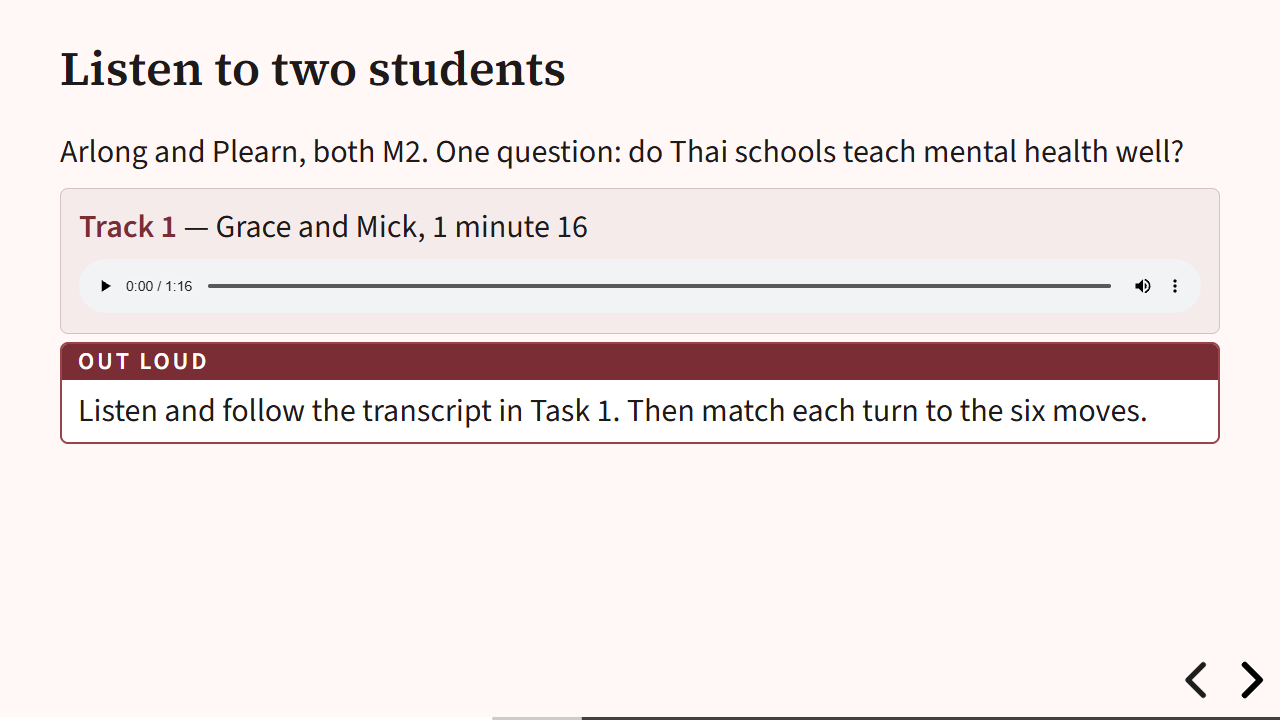
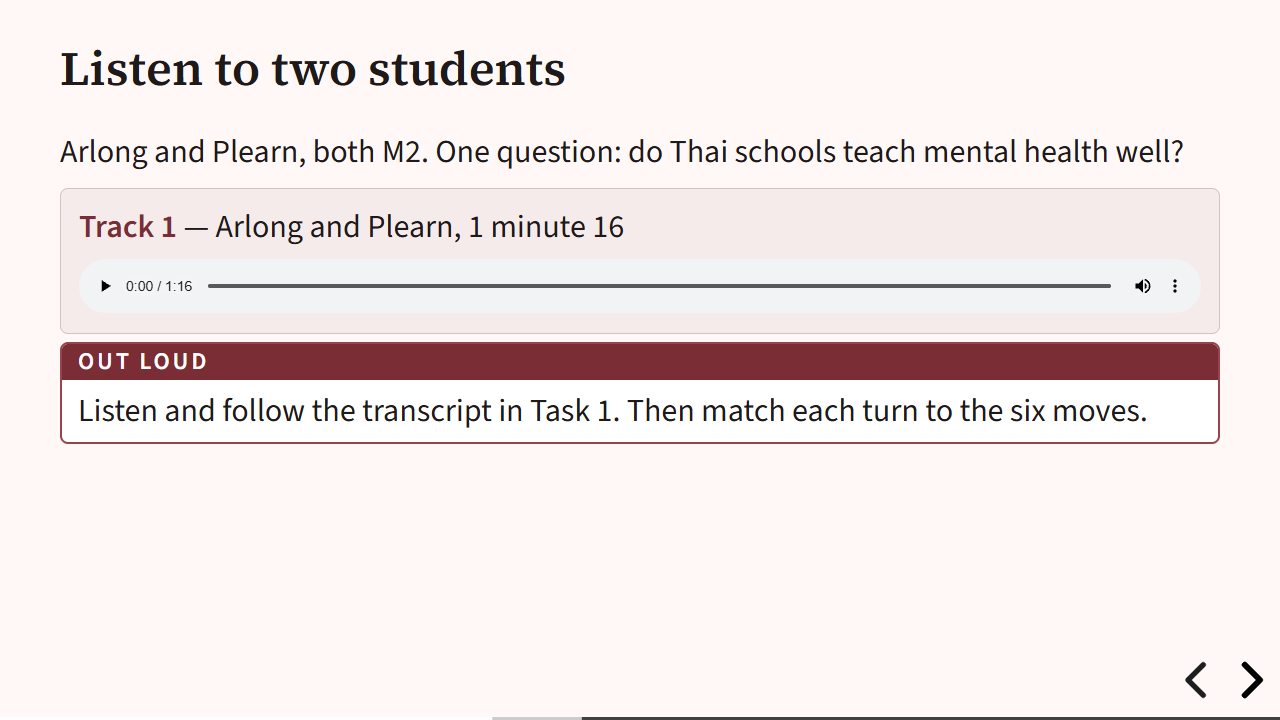
Deploy M2-101126-DISCUSSION

Changed region(s): [[0.1562, 0.275, 0.5, 0.3361]]

diff --git a/M2-101126-DISCUSSION/index.html b/M2-101126-DISCUSSION/index.html
@@ -185,7 +185,7 @@
         <div class="content">
           <p class="text-lg" style="margin-bottom:4px;">Arlong and Plearn, both M2. One question: do Thai schools teach mental health well?</p>
           <div class="track"><vsc-controller class="vsc-controller" style="z-index: 9999999 !important;"></vsc-controller><vsc-controller class="vsc-controller" style="z-index: 9999999 !important;"></vsc-controller><vsc-controller class="vsc-controller" style="z-index: 9999999 !important;"></vsc-controller><vsc-controller class="vsc-controller" style="z-index: 9999999 !important;"></vsc-controller><vsc-controller class="vsc-controller" style="z-index: 9999999 !important;"></vsc-controller>
-            <p><strong>Track 1</strong> — Grace and Mick, 1 minute 16</p>
+            <p><strong>Track 1</strong> — Arlong and Plearn, 1 minute 16</p>
             <audio controls="" preload="metadata" src="audio/M2-EXEMPLAR-arlong-plearn.mp3" style="width:100%;"></audio>
           </div>
           <div class="task-box">
